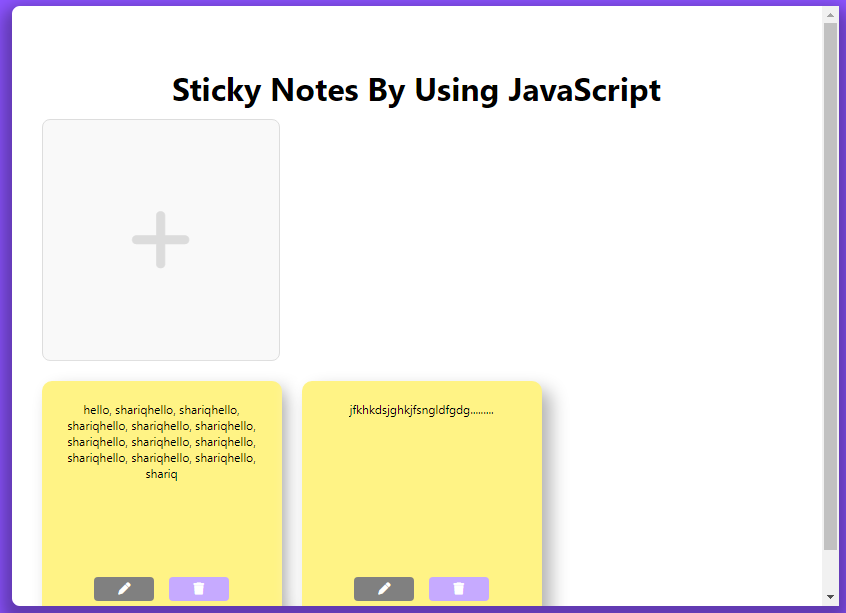
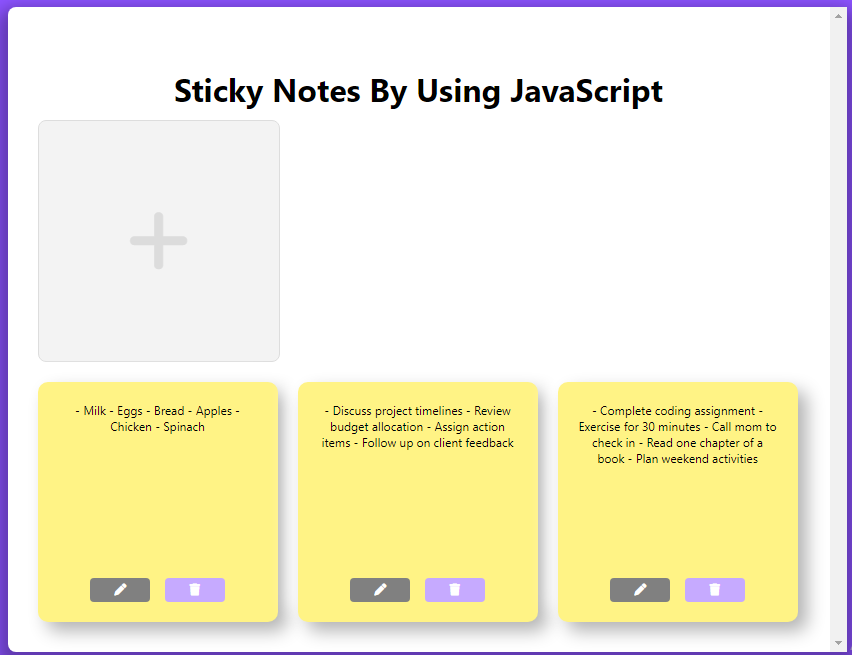
update files

Changed region(s): [[0.0, 0.0, 1.0, 1.0], [0.1844, 0.124, 0.7991, 0.186], [0.1537, 0.31, 0.2151, 0.3719]]

diff --git a/css/style.css b/css/style.css
@@ -20,8 +20,8 @@ h1#heading {
   border-radius: 8px;
   box-shadow: 0px 10px 15px 10px rgba(0, 0, 0, 0.3);
   overflow: hidden;
-  width: 827px;
-  height: 600px;
+  width: auto;
+  height: auto;
   padding: 20px;
   box-sizing: border-box;
   text-align: center;

diff --git a/README.md b/README.md
@@ -1,6 +1,6 @@
 # Sticky Notes Web App
 
-Welcome to the Sticky Notes Web App repository! This project provides a simple yet effective way to manage your tasks, ideas, or reminders through digital sticky notes directly in your web browser.
+Welcome to Sticky Notes by Umair, a simple and intuitive web application designed to help you organize your thoughts, tasks, and ideas effortlessly. As a fullstack developer, I understand the importance of having a reliable tool to manage your notes efficiently, and Sticky Notes aims to provide just that.
 
 ## Features
 
@@ -26,3 +26,7 @@ Contributions to this project are highly appreciated! If you have any ideas for 
 This project is licensed under the [MIT License](LICENSE), allowing for free and open use, modification, and distribution.
 
 ![Sticky Notes Preview](image.png)
+
+---
+
+Developed with ❤ by Umair, a passionate fullstack developer.
